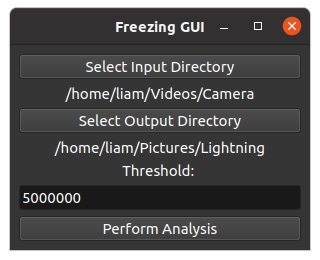
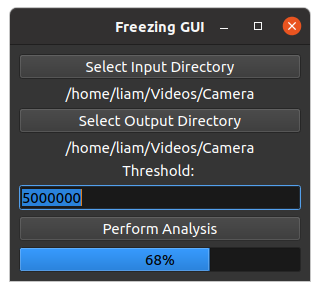
Progress Bar and Multithreading
Added progress bar, multithreading, and some other improvements. Updated readme and gui image.

diff --git a/PyQtTest.py b/PyQtTest.py
@@ -1,10 +1,20 @@
+__author__ = "Liam Plybon"
+__copyright__ = "Copyright 2022, Liam Plybon"
+__credits__ = ["Saulius Lukse", "Drake Anthony (Styropyro)"]
+__license__ = "MIT"
+__version__ = "2"
+__maintainer__ = "Liam Plybon"
+__email__ = "lplybon1@gmail.com"
+__status__ = "Prototype"
+__date__ = "4-17-2022"
+
 import sys
 import time
 import os
 from PIL import Image, ImageTk
 
-#imports for gui interface
-from PySide2.QtCore import Qt
+# imports for gui interface
+from PySide2.QtCore import Qt, QObject, QThread, Signal, Slot
 from PySide2.QtWidgets import (
     QApplication,
     QLabel,
@@ -13,27 +23,38 @@ from PySide2.QtWidgets import (
     QVBoxLayout,
     QWidget,
     QFileDialog,
-    QLineEdit
-    )
-#imports for Dark Mode theme
+    QLineEdit,
+    QProgressBar
+)
+# imports for Dark Mode theme
 from PySide2.QtGui import (
     QPalette,
     QColor,
     QIntValidator
-    )
+)
 
 import cv2
 
+#global variable
 SCALE = 0.5
 NOISE_CUTOFF = 5
 BLUR_SIZE = 3
+# input, output, and threshold are manipulated by the directory select buttons
+# this allows them to pass into the worker thread without slots and signals.
+# as such they are used as global variables
+# for clarity, all globals are redefined as global wherever used.
+global input_folder
+input_folder = 'No Folder Chosen'
+global output_folder
+output_folder = 'No Folder Chosen'
+global threshold
+threshold = '5000000'
+
 
 def count_diff(img1, img2):
     # Finds a difference between a frame and the frame before it.
     small1 = cv2.resize(img1, (0, 0), fx=SCALE, fy=SCALE)
     small2 = cv2.resize(img2, (0, 0), fx=SCALE, fy=SCALE)
-    #cv2.imshow('frame', small2)
-    # cv2.waitKey(1)
     diff = cv2.absdiff(small1, small2)
     diff = cv2.cvtColor(diff, cv2.COLOR_RGB2GRAY)
     frame_delta1 = cv2.threshold(diff, NOISE_CUTOFF, 255, 3)[1]
@@ -43,90 +64,38 @@ def count_diff(img1, img2):
     return delta_count1
 
 
-class Window(QMainWindow):
-    def __init__(self, parent=None):
-        super().__init__(parent)
-        self.clicksCount = 0
-        self.setupUi()
+class Worker(QObject):
+    # worker thread for the analysis.
+    finished = Signal()
+    #progress = Signal(int)
+    #input = Signal()
+    threadProgress = Signal(int)
 
-    def setupUi(self):
-        #sets up the gui layout itself
-        self.setWindowTitle("Freezing GUI")
-        self.resize(300, 150)
-        self.centralWidget = QWidget()
-        self.setCentralWidget(self.centralWidget)
-        # Create and connect widgets
-        self.inputFileDirectoryButton = QPushButton("Select Input Directory", self)
-        self.inputFileDirectoryButton.clicked.connect(self.pick_new_input)
-        self.inputFileDirectoryLabel = QLabel('No Input Directory Selected!')
-        self.inputFileDirectoryLabel.setAlignment(Qt.AlignHCenter | Qt.AlignVCenter)
-        self.outputFileDirectoryButton = QPushButton("Select Output Directory", self)
-        self.outputFileDirectoryButton.clicked.connect(self.pick_new_output)
-        self.outputFileDirectoryLabel = QLabel('No Output Directory Selected!')
-        self.outputFileDirectoryLabel.setAlignment(Qt.AlignHCenter | Qt.AlignVCenter)
-        self.thresholdLabel = QLabel("Threshold: ", self)
-        self.thresholdLabel.setAlignment(Qt.AlignHCenter | Qt.AlignVCenter)
-        self.thresholdEntry = QLineEdit('5000000')
-        # restricts the threshold to be numbers only
-        self.onlyInt = QIntValidator()
-        self.thresholdEntry.setValidator(self.onlyInt)
-        self.analysisButton = QPushButton('Perform Analysis', self)
-        self.analysisButton.clicked.connect(self.analysis)
-
-
-
-        #self.folderpath = QFileDialog.getExistingDirectory(self, 'Select Folder')
-
-        # Set the layout
-        layout = QVBoxLayout()
-        layout.addWidget(self.inputFileDirectoryButton)
-        layout.addWidget(self.inputFileDirectoryLabel)
-        layout.addWidget(self.outputFileDirectoryButton)
-        layout.addWidget(self.outputFileDirectoryLabel)
-        layout.addWidget(self.thresholdLabel)
-        layout.addWidget(self.thresholdEntry)
-        layout.addWidget(self.analysisButton)
-        self.centralWidget.setLayout(layout)
-
-    # def countClicks(self):
-    #     self.clicksCount += 1
-    #     self.clicksLabel.setText(f"Counting: {self.clicksCount} clicks")
-    #
-    # def reportProgress(self, n):
-    #     self.stepLabel.setText(f"Long-Running Step: {n}")
-    #
-    # def runLongTask(self):
-    #     """Long-running task in 5 steps."""
-    #     for i in range(5):
-    #         sleep(1)
-    #         self.reportProgress(i + 1)
-
-    def pick_new_input(self):
-        dialog = QFileDialog()
-        folder_path = dialog.getExistingDirectory(None, "Select Folder")
-        self.inputFileDirectoryLabel.setText(str(folder_path))
-
-    def pick_new_output(self):
-        dialog = QFileDialog()
-        folder_path = dialog.getExistingDirectory(None, "Select Folder")
-        self.outputFileDirectoryLabel.setText(str(folder_path))
-
-    def analysis(self):
+    def run(self):
+        """Long-running task."""
+        print('worker.run')
         # Launches analysis of the videos in the in directory.
         # In future, this needs to have error handling.
         # For now, it is fine without it.
+        global input_folder
+        global output_folder
+        global threshold
+        in_folder = input_folder
+        out_folder = output_folder
+        threshold_integer = int(threshold)
         start = time.time()
-        in_folder = self.inputFileDirectoryLabel.text()
-        out_folder = self.outputFileDirectoryLabel.text()
-        threshold = int(self.thresholdEntry.text())
-        print(threshold)
-        # print(in_folder, out_folder)
         # set framecount, strike counter to zero before looping all frames
         frame_count = 0
         strikes = 0
-        for filename in os.listdir(in_folder):
+        self.threadProgress.emit(10)
+        #counts number of files in folder for progress bar
+        path, dirs, files = next(os.walk(in_folder))
+        filecount = len(files)
+        for index, filename in enumerate(os.listdir(in_folder)):
             # itterates over files in directory
             # f_in and f_out control input and destination targets
+            completion = 10+(90*((index+1)/filecount))
+            self.threadProgress.emit(completion)
             f_in = os.path.join(in_folder, filename)
             f_out = os.path.join(out_folder, filename)
             video = cv2.VideoCapture(f_in)
@@ -151,7 +120,7 @@ class Window(QMainWindow):
                 diff1 = count_diff(frame0, frame1)
                 name = f_out+"_%06d.jpg" % i
 
-                if diff1 > threshold:
+                if diff1 > threshold_integer:
                     # pass condition
                     cv2.imwrite(name, frame1)
                     strikes = strikes + 1
@@ -163,10 +132,113 @@ class Window(QMainWindow):
                 # pass frame forward
                 frame0 = frame1
         fff.close()
-        #statistics
+        # statistics
         print('[i] Strikes: ', strikes)
         print('[i] elapsed time:', time.time() - start)
         print('analyzed! ')
+        #sends finished signal. Essentially terminates the thread.
+        self.threadProgress.emit(100)
+        self.finished.emit()
+
+
+class Window(QMainWindow):
+    def __init__(self, parent=None):
+        super().__init__(parent)
+        self.clicksCount = 0
+        self.setupUi()
+
+    def setupUi(self):
+        # sets up the gui layout itself
+        self.setWindowTitle("Freezing GUI")
+        self.resize(300, 150)
+        self.centralWidget = QWidget()
+        self.setCentralWidget(self.centralWidget)
+        # Create and connect widgets
+        self.inputFileDirectoryButton = QPushButton("Select Input Directory", self)
+        self.inputFileDirectoryButton.clicked.connect(self.pick_new_input)
+        self.inputFileDirectoryLabel = QLabel(input_folder)
+        self.inputFileDirectoryLabel.setAlignment(Qt.AlignHCenter | Qt.AlignVCenter)
+        self.outputFileDirectoryButton = QPushButton("Select Output Directory", self)
+        self.outputFileDirectoryButton.clicked.connect(self.pick_new_output)
+        self.outputFileDirectoryLabel = QLabel(output_folder)
+        self.outputFileDirectoryLabel.setAlignment(Qt.AlignHCenter | Qt.AlignVCenter)
+        self.thresholdLabel = QLabel("Threshold: ", self)
+        self.thresholdLabel.setAlignment(Qt.AlignHCenter | Qt.AlignVCenter)
+        self.thresholdEntry = QLineEdit(threshold)
+        # restricts the threshold to be numbers only
+        self.onlyInt = QIntValidator()
+        self.thresholdEntry.setValidator(self.onlyInt)
+        self.analysisButton = QPushButton('Perform Analysis', self)
+        # self.analysisButton.clicked.connect(self.analysis)
+        self.analysisButton.clicked.connect(self.runLongTask)
+        self.progressBar = QProgressBar(self)
+        self.progressBar.setAlignment(Qt.AlignHCenter | Qt.AlignVCenter)
+        #self.progressBar.setGeometry(200, 80, 250, 20)
+        self.progressBar.setValue(0)
+
+        # Set the layout
+        layout = QVBoxLayout()
+        layout.addWidget(self.inputFileDirectoryButton)
+        layout.addWidget(self.inputFileDirectoryLabel)
+        layout.addWidget(self.outputFileDirectoryButton)
+        layout.addWidget(self.outputFileDirectoryLabel)
+        layout.addWidget(self.thresholdLabel)
+        layout.addWidget(self.thresholdEntry)
+        layout.addWidget(self.analysisButton)
+        layout.addWidget(self.progressBar)
+        self.centralWidget.setLayout(layout)
+
+    def pick_new_input(self):
+        dialog = QFileDialog()
+        folder_path = dialog.getExistingDirectory(None, "Select Input Folder")
+        global input_folder
+        input_folder = str(folder_path)
+        self.inputFileDirectoryLabel.setText(str(folder_path))
+
+    def pick_new_output(self):
+        dialog = QFileDialog()
+        folder_path = dialog.getExistingDirectory(None, "Select Output Folder")
+        global output_folder
+        output_folder = str(folder_path)
+        self.outputFileDirectoryLabel.setText(str(folder_path))
+
+    def runLongTask(self):
+        # set the threshold
+        global threshold
+        threshold = self.thresholdEntry.text()
+        # Step 2: Create a QThread object
+        self.thread = QThread()
+        # Step 3: Create a worker object
+        self.worker = Worker()
+        # Step 4: Move worker to the thread
+        self.worker.moveToThread(self.thread)
+        # setup progress bar signal
+        self.worker.threadProgress.connect(self.onCountChanged)
+        # Step 5: Connect signals and slots
+        self.thread.started.connect(self.worker.run)
+        self.worker.finished.connect(self.thread.quit)
+        self.worker.finished.connect(self.worker.deleteLater)
+        self.thread.finished.connect(self.thread.deleteLater)
+        # self.worker.progress.connect(self.reportProgress)
+        # Step 6: Start the thread
+        self.thread.start()
+        print('asdf')
+
+        # Final resets
+        self.analysisButton.setEnabled(False)
+        print('asdf')
+        self.thread.finished.connect(
+            lambda: self.analysisButton.setEnabled(True)
+        )
+        print('asdf')
+
+    def onCountChanged(self, value):
+        self.progressBar.setValue(value)
+
+def app_close():
+    # function describing app close condition
+    return True
+
 
 app = QApplication(sys.argv)
 
@@ -191,7 +263,7 @@ palette.setColor(QPalette.Highlight, QColor(42, 130, 218))
 palette.setColor(QPalette.HighlightedText, Qt.black)
 app.setPalette(palette)
 
-#finish building window
+# finish building window
 win = Window()
 win.show()
 sys.exit(app.exec_())

diff --git a/README.md b/README.md
@@ -78,9 +78,11 @@ for stormchasers and tinkerers to use.
 * Quality of Life Features
  * requirements.txt ✔
  * Graphics overhaul for less ugly interface ✔
+ * Multithreading for faster processing speed ✔
+ * Progress bar ✔
  * Auto-Threshold button to set the threshold on new videos
- * Multithreading for faster processing speed
  * Error handling to give feedback during analysis
+ * Signed files for security
 
 
 
